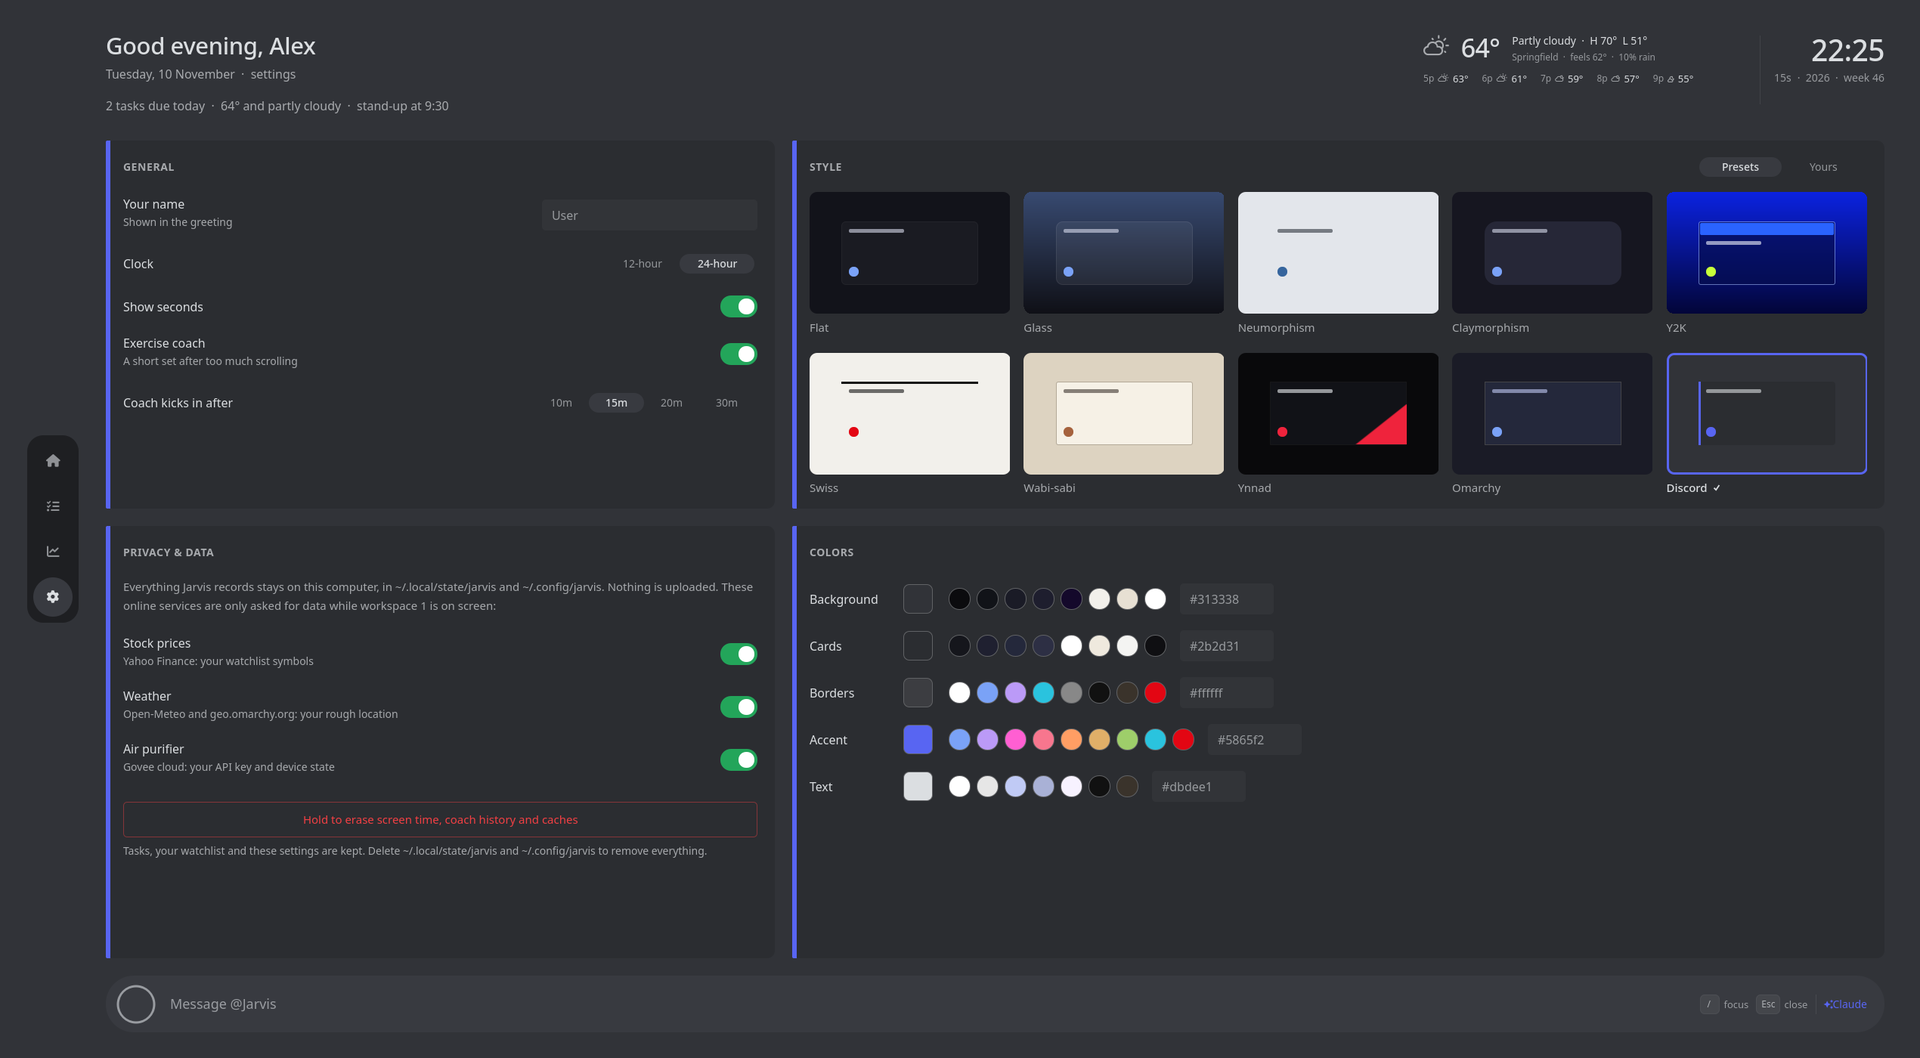
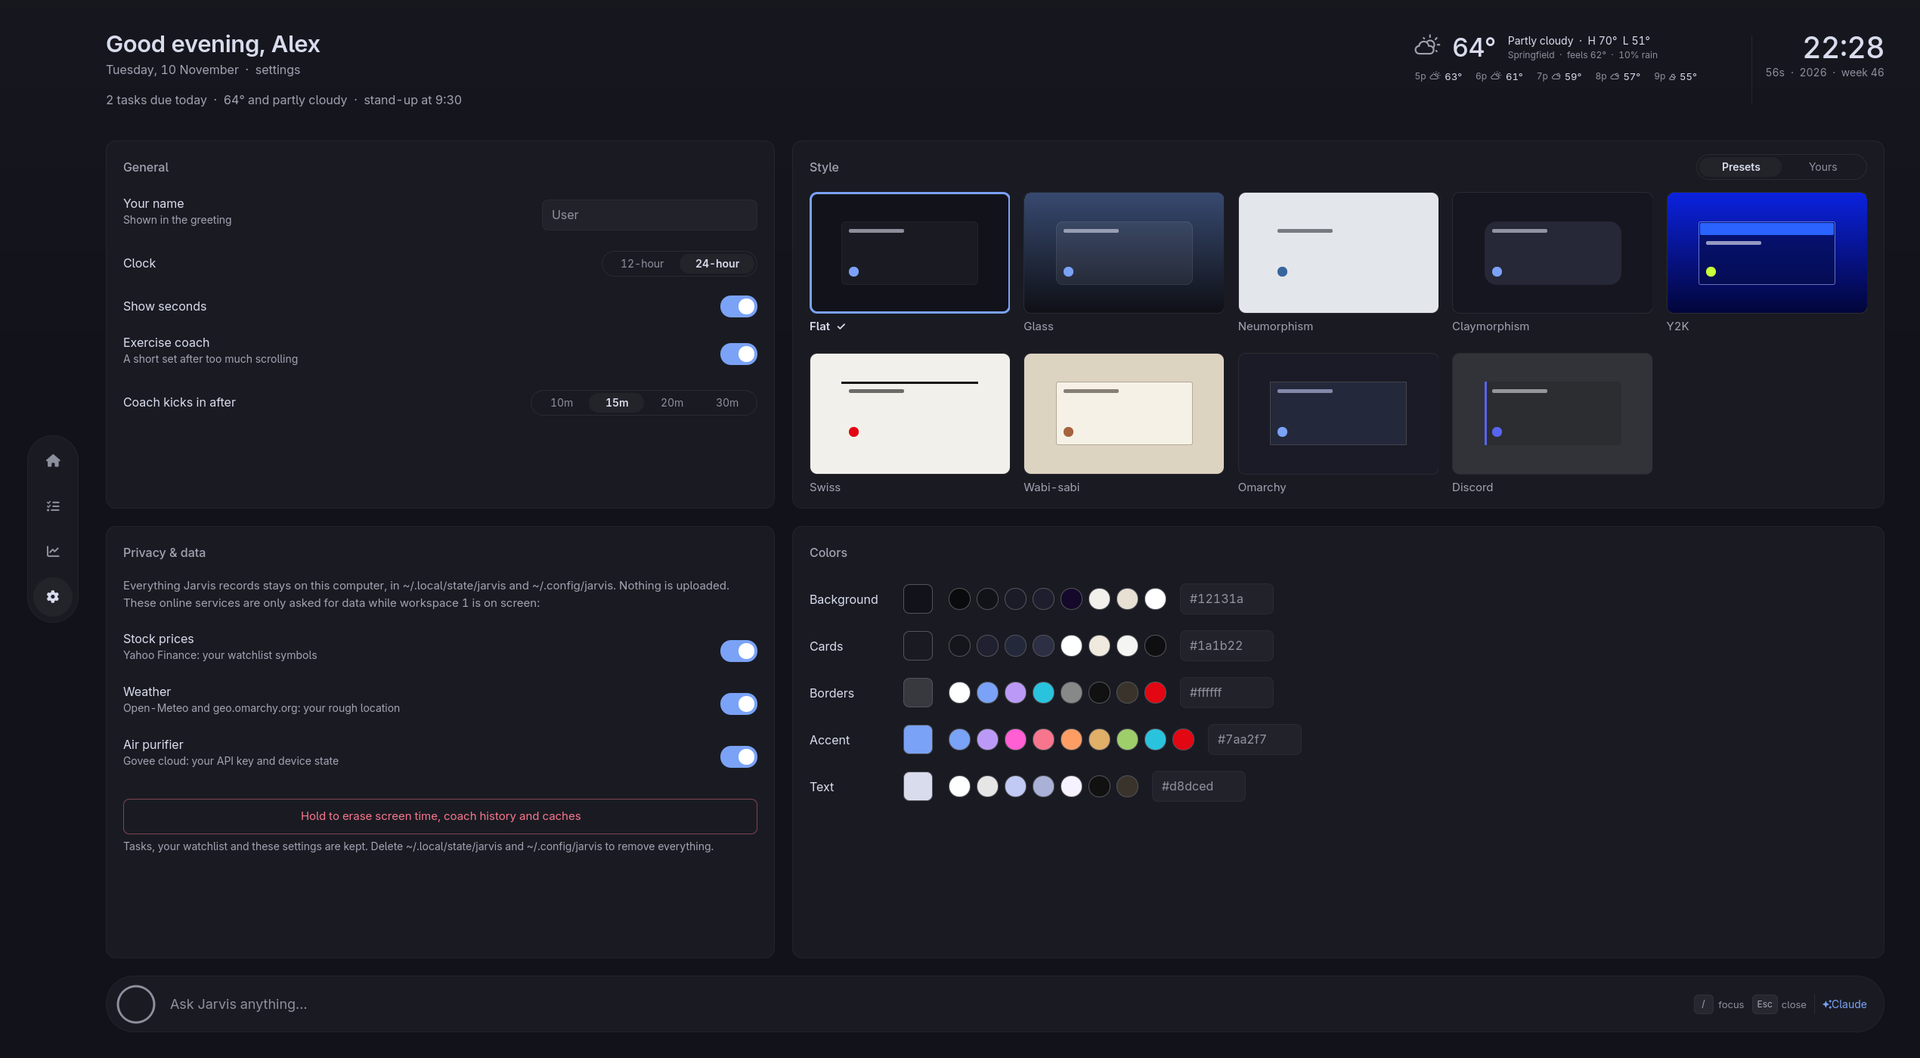
1.4.0: remove the Ynnad style
Drops the Ynnad preset and what only it used: alternating light cards,
its shadows and backdrop, and the red greeting. Nine styles remain.

diff --git a/Theme.qml b/Theme.qml
@@ -27,7 +27,6 @@ QtObject {
     { key: "y2k", label: "Y2K" },
     { key: "swiss", label: "Swiss" },
     { key: "wabi", label: "Wabi-sabi" },
-    { key: "ynnad", label: "Ynnad" },
     { key: "omarchy", label: "Omarchy" },
     { key: "discord", label: "Discord" }
   ]
@@ -40,9 +39,6 @@ QtObject {
   ]
 
   property string style: Quickshell.env("JARVIS_STYLE") || "flat"
-  // "alt" gives a style's second card color, for styles that alternate
-  // cards (Ynnad: Ice Grey cards between the obsidian ones).
-  property string variant: ""
   property var custom: ({})          // hand-picked colors, by key
   // The user's own saved themes: [{ name, style, colors }], newest last.
   property var saved: []
@@ -52,7 +48,6 @@ QtObject {
   readonly property bool y2k: style === "y2k"
   readonly property bool swiss: style === "swiss"
   readonly property bool wabi: style === "wabi"
-  readonly property bool ynnad: style === "ynnad"
   readonly property bool omarchy: style === "omarchy"
   readonly property bool discord: style === "discord"
 
@@ -68,9 +63,9 @@ QtObject {
   property var pal: ({})
   property int hyprBorder: 0
 
-  readonly property var preset: presetFor(style, variant)
+  readonly property var preset: presetFor(style)
   // Any style's recipe, so the settings page can preview styles not in use.
-  function presetFor(s, v) {
+  function presetFor(s) {
     var bg = themeBg, fg = themeFg
     var darkText = Qt.tint(fg, Qt.rgba(1, 1, 1, 0.55))
     switch (s) {
@@ -122,15 +117,6 @@ QtObject {
       dark: true, base: "#313338", surface: "#2b2d31", hover: "#2e3035", raised: "#383a40",
       border: Qt.rgba(0, 0, 0, 0), borderStrong: Qt.rgba(1, 1, 1, 0.08), text: "#dbdee1",
       radius: 8, small: 4, font: "Noto Sans", accent: "#5865f2", green: "#23a55a", red: "#f23f43", yellow: "#f0b232" }
-    // Ynnad: Obsidian Black, Ice Grey and Racing Red. Obsidian cards and Ice
-    // Grey cards alternate on a near-black page; red cuts across corners.
-    case "ynnad": return v === "alt" ? {
-      dark: false, base: "#09090b", surface: "#dfe5eb", hover: "#e7ecf1", raised: "#cfd7df",
-      border: Qt.rgba(0, 0, 0, 0.06), borderStrong: Qt.rgba(0.94, 0.14, 0.24, 0.8), text: "#111217",
-      radius: 3, small: 2, font: "Adwaita Sans", accent: "#ef233c", green: "#16804a", red: "#c8102e", yellow: "#9a5b00" } : {
-      dark: true, base: "#09090b", surface: "#111217", hover: "#16171d", raised: "#1e1f26",
-      border: Qt.rgba(1, 1, 1, 0.06), borderStrong: Qt.rgba(0.94, 0.14, 0.24, 0.8), text: "#eef1f4",
-      radius: 3, small: 2, font: "Adwaita Sans", accent: "#ef233c", green: "#3ddc84", red: "#ff4d63", yellow: "#ffb020" }
     default: return {
       dark: true, base: Qt.darker(bg, 1.45), surface: Qt.tint(Qt.darker(bg, 1.45), Qt.rgba(1, 1, 1, 0.035)),
       hover: Qt.tint(Qt.darker(bg, 1.45), Qt.rgba(1, 1, 1, 0.055)), raised: Qt.tint(Qt.darker(bg, 1.45), Qt.rgba(1, 1, 1, 0.07)),

diff --git a/Jarvis.qml b/Jarvis.qml
@@ -566,13 +566,6 @@ Item {
     id: theme
     u: Math.max(0.6, Math.min(win.width / 1920, win.height / 1080))
   }
-  // The second card color for styles that alternate cards (Ynnad).
-  Theme {
-    id: themeAlt
-    variant: "alt"
-    u: theme.u
-  }
-  function tt(alt) { return alt && theme.ynnad ? themeAlt : theme }
   Timer {
     interval: 1000
     repeat: true
@@ -680,24 +673,13 @@ Item {
           Behavior on opacity { NumberAnimation { duration: Style.duration(root.live ? 260 : 120); easing.type: Easing.OutCubic } }
           Behavior on rise { NumberAnimation { duration: Style.duration(320); easing.type: Easing.Bezier; easing.bezierCurve: Style.easeOut } }
 
-          // "Good evening, Name." In Ynnad the name is set in Racing Red.
-          Row {
+          JText {
             id: hello
-            JText {
-              t: theme
-              text: root.dash.greeting + ", "
-              size: 24
-              font.weight: theme.ynnad ? Font.Black : Font.DemiBold
-              font.letterSpacing: theme.ynnad ? -0.8 : -0.4
-            }
-            JText {
-              t: theme
-              text: root.userName + (theme.ynnad ? "." : "")
-              size: 24
-              font.weight: theme.ynnad ? Font.Black : Font.DemiBold
-              font.letterSpacing: theme.ynnad ? -0.8 : -0.4
-              color: theme.ynnad ? theme.accent : theme.text
-            }
+            t: theme
+            text: root.dash.greeting + ", " + root.userName
+            size: 24
+            font.weight: Font.DemiBold
+            font.letterSpacing: -0.4
           }
           JText {
             id: dateLine
@@ -865,7 +847,7 @@ Item {
             StatCard {
               required property int index
               readonly property var modelData: root.stats[index]
-              t: root.tt(index % 2 === 1)
+              t: theme
               model: modelData
               width: kpis.cardW
               height: kpis.height
@@ -889,7 +871,7 @@ Item {
           onRangePicked: function(r) { root.range = r }
         }
         TodayCard {
-          t: root.tt(true)
+          t: theme
           x: chart.width + content.gap
           y: chart.y
           width: content.width - x
@@ -920,7 +902,7 @@ Item {
           }
           DiscordCard {
             id: discordCard
-            t: root.tt(true)
+            t: theme
             x: inbox.x + inbox.width + content.gap
             width: lower.unit * lower.weights[1]
             height: lower.height
@@ -948,7 +930,7 @@ Item {
           }
           HomeCard {
             id: homeCard
-            t: root.tt(true)
+            t: theme
             x: todoCard.x + todoCard.width + content.gap
             width: lower.unit * lower.weights[3]
             height: lower.height

diff --git a/GlassCard.qml b/GlassCard.qml
@@ -67,10 +67,6 @@ Item {
   SoftShadow { visible: card.t.neu; target: bg; radius: bg.radius; blur: card.t.px(26); dx: card.t.px(11); dy: card.t.px(11); color: card.t.shadowDark; strength: 0.9 }
   SoftShadow { visible: card.t.clay; target: bg; radius: bg.radius; blur: card.t.px(36); dx: 0; dy: card.t.px(16); color: "black"; strength: 0.8 }
   SoftShadow { visible: card.t.y2k; target: bg; radius: bg.radius; blur: card.t.px(3); dx: card.t.px(6); dy: card.t.px(6); color: "#00052e"; strength: 0.9; steps: 3 }
-  // ynnad: product-shot lighting: a wide soft shadow below, a tighter one
-  // close under the edge.
-  SoftShadow { visible: card.t.ynnad; target: bg; radius: bg.radius; blur: card.t.px(40); dx: 0; dy: card.t.px(18); color: "black"; strength: 0.9 }
-  SoftShadow { visible: card.t.ynnad; target: bg; radius: bg.radius; blur: card.t.px(10); dx: 0; dy: card.t.px(4); color: "black"; strength: 0.5 }
   SoftShadow { visible: card.t.wabi; target: bg; radius: bg.radius; blur: card.t.px(22); dx: 0; dy: card.t.px(7); color: "#3a2a1a"; strength: 0.26 }
 
   // ---- the surface --------------------------------------------------------------------
@@ -200,17 +196,6 @@ Item {
       border.color: Qt.rgba(0.23, 0.19, 0.14, 0.12)
     }
 
-    // ynnad: a studio spotlight across obsidian cards
-    Rectangle {
-      visible: card.t.ynnad && card.t.dark
-      anchors.fill: parent
-      radius: parent.radius
-      gradient: Gradient {
-        orientation: Gradient.Horizontal
-        GradientStop { position: 0.0; color: Qt.rgba(1, 1, 1, 0.045) }
-        GradientStop { position: 0.6; color: Qt.rgba(1, 1, 1, 0.0) }
-      }
-    }
     // discord: an embed's colored bar down the left edge
     Rectangle {
       visible: card.t.discord
@@ -248,10 +233,10 @@ Item {
       text: card.t.swiss || card.t.y2k || card.t.discord ? card.title.toUpperCase() : card.title
       size: card.t.swiss ? 11.5 : card.t.y2k || card.t.discord ? 11 : 12.5
       mono: card.t.y2k
-      font.weight: card.t.swiss || card.t.y2k || card.t.ynnad || card.t.discord ? Font.Bold : Font.Medium
+      font.weight: card.t.swiss || card.t.y2k || card.t.discord ? Font.Bold : Font.Medium
       font.letterSpacing: card.t.swiss ? 1.2 : card.t.y2k ? 1.5 : card.t.discord ? 0.6 : 0
       font.italic: card.t.wabi
-      color: card.t.y2k ? "white" : card.t.swiss || card.t.ynnad ? card.t.text : card.t.textDim
+      color: card.t.y2k ? "white" : card.t.swiss ? card.t.text : card.t.textDim
     }
     JText {
       visible: card.sample

diff --git a/Aurora.qml b/Aurora.qml
@@ -10,7 +10,6 @@ import Quickshell
 //          sparkles and HUD labels in the margins
 //   swiss  plain paper with a faint 12-column grid
 //   wabi   warm paper with a little grain
-//   ynnad  a studio backdrop: soft spotlight and vignette
 // Painted with gradients and a Canvas, so no shader support is needed.
 Item {
   id: canvas
@@ -142,18 +141,6 @@ Item {
         ctx.fillText("2000 AND BEYOND  //  DIGITAL DREAMS", 0, 0); ctx.restore()
         ctx.save(); ctx.translate(h * 0.016, h * 0.97); ctx.rotate(-Math.PI / 2)
         ctx.fillText(">> SYSTEM ONLINE   \u25cf  CONNECTION OK", 0, 0); ctx.restore()
-        break
-      }
-      case "ynnad": {
-        // A studio backdrop: a broad soft spotlight from above-left, falling
-        // off into a dark vignette at the edges.
-        blob(w * 0.3, -h * 0.15, h * 1.2, Qt.rgba(1, 1, 1, 1), 0.07)
-        blob(w * 0.85, h * 0.2, h * 0.7, Qt.rgba(0.87, 0.9, 0.92, 1), 0.035)
-        var v = ctx.createRadialGradient(w * 0.45, h * 0.4, h * 0.35, w * 0.45, h * 0.4, w * 0.75)
-        v.addColorStop(0, "rgba(0,0,0,0)")
-        v.addColorStop(1, "rgba(0,0,0,0.55)")
-        ctx.fillStyle = v
-        ctx.fillRect(0, 0, w, h)
         break
       }
       case "swiss": {

diff --git a/StatCard.qml b/StatCard.qml
@@ -53,9 +53,9 @@ GlassCard {
       anchors.top: label.bottom
       anchors.topMargin: stat.t.px(10)
       text: stat.format(stat.model.kind, (stat.model.value || 0) * stat.ease(stat.progress * 1.25))
-      size: stat.model.kind === "text" ? 20 : stat.t.ynnad ? 30 : 28
-      font.weight: stat.t.ynnad ? Font.Black : Font.DemiBold
-      font.letterSpacing: stat.t.ynnad ? -1.2 : -0.6
+      size: stat.model.kind === "text" ? 20 : 28
+      font.weight: Font.DemiBold
+      font.letterSpacing: -0.6
       color: stat.model.kind === "text" ? stat.t.textFaint : stat.t.text
     }
 

diff --git a/README.md b/README.md
@@ -11,17 +11,14 @@ inside the Omarchy shell as the `ynnad.jarvis` plugin.
 |---|---|---|
 | ![Tasks](docs/tasks.png) | ![Stocks](docs/stocks.png) | ![Settings](docs/settings.png) |
 
-Ten styles, switchable in Settings, with your own colors on top: flat, glass,
-neumorphism, claymorphism, Y2K, Swiss, wabi-sabi, Ynnad (obsidian and ice grey
-cards with soft studio shadows), **Omarchy** (matches your desktop: your Omarchy theme's
-colors, font, corners and wallpaper, and follows theme changes) and
-**Discord** (Discord's dark theme, embeds and all).
+Nine styles, switchable in Settings, with your own colors on top: flat, glass,
+neumorphism, claymorphism, Y2K, Swiss, wabi-sabi, **Omarchy** (matches your
+desktop: your Omarchy theme's colors, font, corners and wallpaper, and follows
+theme changes) and **Discord** (Discord's dark theme, embeds and all).
 
-![All ten styles](docs/styles.jpg)
+![All nine styles](docs/styles.jpg)
 
 ![Jarvis in the Y2K style](docs/home-y2k.png)
-
-![Jarvis in the Ynnad style](docs/home-ynnad.png)
 
 Screenshots use made-up demo data.
 
@@ -93,7 +90,7 @@ in Settings, or edit the site and app lists in `~/.config/jarvis/coach.json`.
 | Tab, Space, arrows | Move between and change controls in Settings |
 
 Settings has the style, colors, your name, the clock, the exercise coach, and a
-switch for every online service. Under Style, **Presets** are the ten built-in
+switch for every online service. Under Style, **Presets** are the nine built-in
 looks and **Yours** holds themes you save: pick a preset, change any colors,
 then "Save current" (or "Save as theme" on the Colors card) to switch back to it
 any time. Saved themes stay on your computer.
